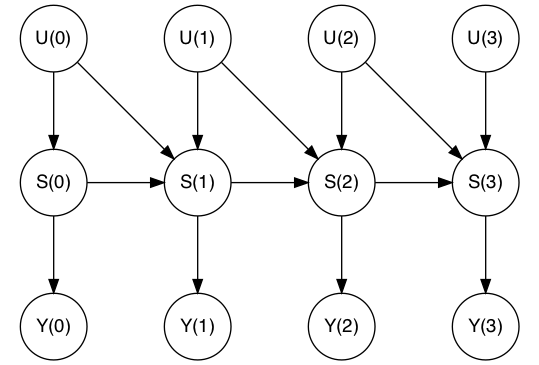
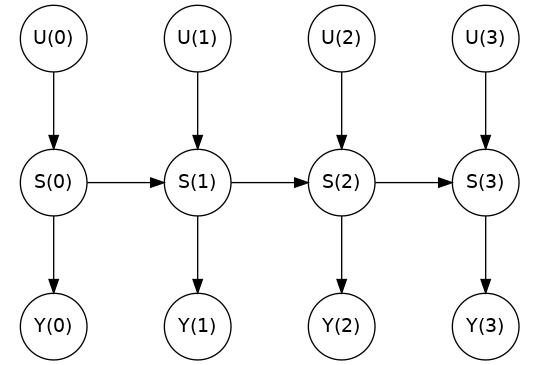
updated

diff --git a/EM_Factorial_IOHMM.py b/EM_Factorial_IOHMM.py
@@ -16,10 +16,10 @@ data_input = np.transpose(np.array(data_sample_i))
 
 
 # temp random robots' performances {0.0, 0.2, 0.4, 0.6, 0.8, 1.0}
-input_seq = np.random.randint(0, 6, (300, 3)) / 5.
+# input_seq = np.random.randint(0, 6, (300, 3)) / 5.
 
 # sampled inputs
-# input_seq = data_input
+input_seq = data_input
 
 input_seq_r = np.transpose(input_seq)  # input sequence transpose
 
@@ -55,10 +55,6 @@ def sigma_input(input_seq, t_len):
                     else:
                         input_k[i1 / 5., i2 / 5., i3 / 5.].append(0)
 
-
-
-
-
     # uncomment to write the input sequence onto a spreadsheet
     # workbook = xlsxwriter.Workbook('Input.xlsx')
     # worksheet = workbook.add_worksheet()
@@ -77,12 +73,15 @@ array = np.array(list(sigma_k.values()))
 for u, t in enumerate(array):
     sigma_u[u] = list(np.where(t == 1)[0])
 
+plt.subplots(1, 1, sharex='all', sharey='all')
 
 # plot the input sequence
 for i, u_t in enumerate(input_seq_r):
-    plt.subplot(int('31{}'.format(i+1)))
+    # plt.subplot(int('31{}'.format(i+1)))
+
     plt.plot(time_seq, u_t)
-    plt.grid(color='r', axis='y', linewidth=1)
+    # plt.grid(color='b', axis='y')
+
 
 # plt.show()
 
@@ -153,8 +152,6 @@ def mlogit_transition(w, u, pi):
 
         a_ijt = np.concatenate((a_ijt, a_ij))
 
-    # a_ijt = a_ijt[8::]
-
     A_ijt = a_ijt.reshape((int(len(a_ijt) / 8), 8, 8))
 
     return A_ijt
@@ -184,7 +181,6 @@ def mlogit_emission_int(w, o):
     b_jt = np.empty((1, 8))
 
     for t in range(time_length):
-        # print(int(o[t][0]))
         oo = [int(o[t][0])]
         b_jt = np.concatenate((b_jt, b_lj[oo]))
 

diff --git a/IOHMM_graphviz.py b/IOHMM_graphviz.py
@@ -11,7 +11,7 @@ __author__ = """Maziar Fooladi"""
 import pygraphviz as pgv
 
 
-B=pgv.AGraph('iohmm.dot') # create a new graph from file
+B=pgv.AGraph('factorial_iohmm.dot') # create a new graph from file
 B.layout() # layout with default (neato)
-B.draw('iohmm.png') # draw png
+B.draw('F_iohmm.png') # draw png
 print("Wrote iohmm.png")
